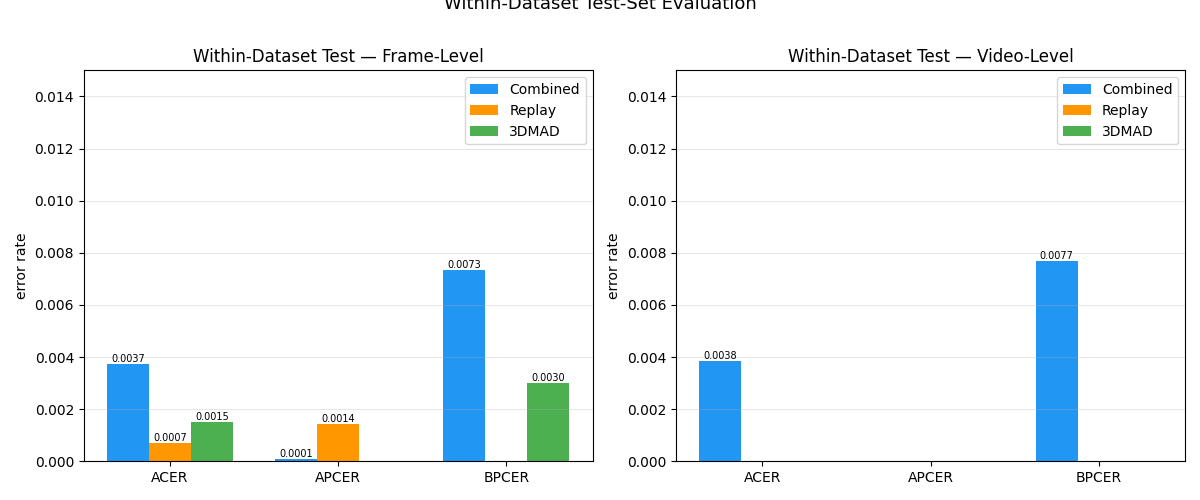
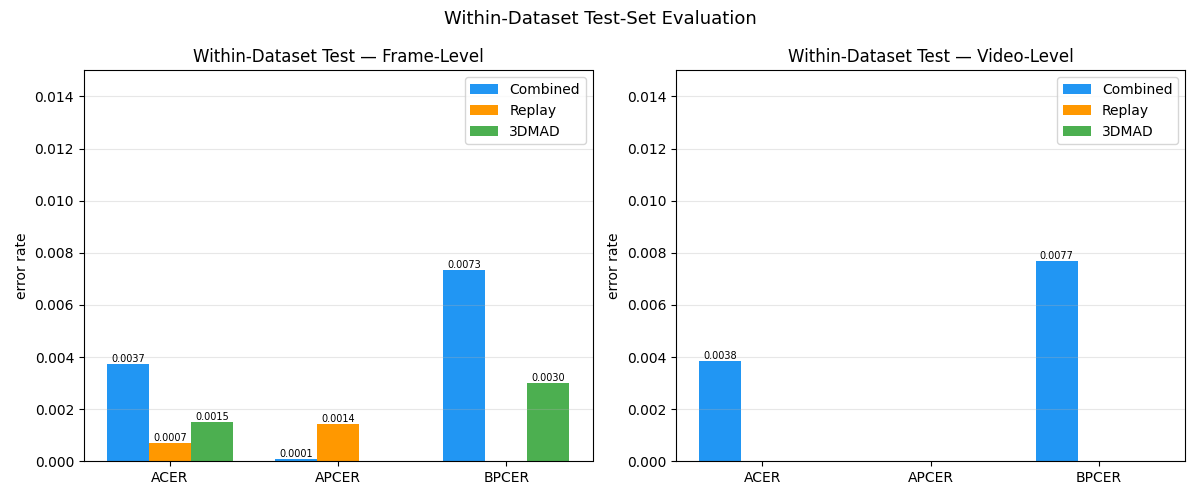
fix: regenerated the top chopped figures from results_viz EDA notebook

Changed region(s): [[0.37, 0.0, 0.6475, 0.06]]

diff --git a/src/results_viz.py b/src/results_viz.py
@@ -107,7 +107,7 @@ def plot_training_curves(cv_runs: dict) -> plt.Figure:
         ax_acer.grid(alpha=0.3)
         ax_loss.legend(fontsize=8)
 
-    fig.suptitle("Training Curves — 5-Fold CV", fontsize=13, y=1.01)
+    fig.suptitle("Training Curves — 5-Fold CV", fontsize=13)
     fig.tight_layout()
     return fig
 
@@ -259,7 +259,7 @@ def plot_within_dataset_bars(test_results: dict) -> plt.Figure:
         ax.grid(axis="y", alpha=0.3)
         ax.set_ylim(0, max(0.015, ax.get_ylim()[1] * 1.3))
 
-    fig.suptitle("Within-Dataset Test-Set Evaluation", fontsize=13, y=1.01)
+    fig.suptitle("Within-Dataset Test-Set Evaluation", fontsize=13)
     fig.tight_layout()
     return fig
 
@@ -312,7 +312,7 @@ def plot_cross_dataset_bars(test_results: dict) -> plt.Figure:
     ax.set_title("Devel-Calibrated Threshold")
     ax.grid(axis="y", alpha=0.3)
 
-    fig.suptitle("Cross-Dataset Generalisation", fontsize=13, y=1.01)
+    fig.suptitle("Cross-Dataset Generalisation", fontsize=13)
     fig.tight_layout()
     return fig
 